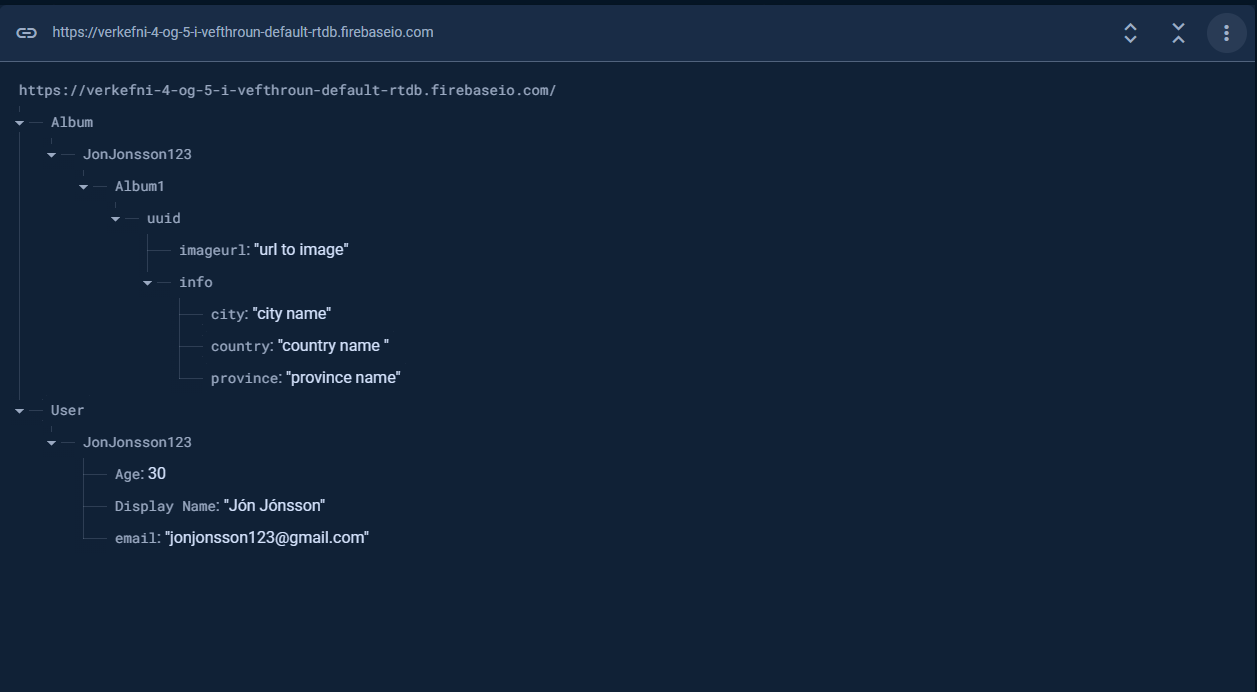
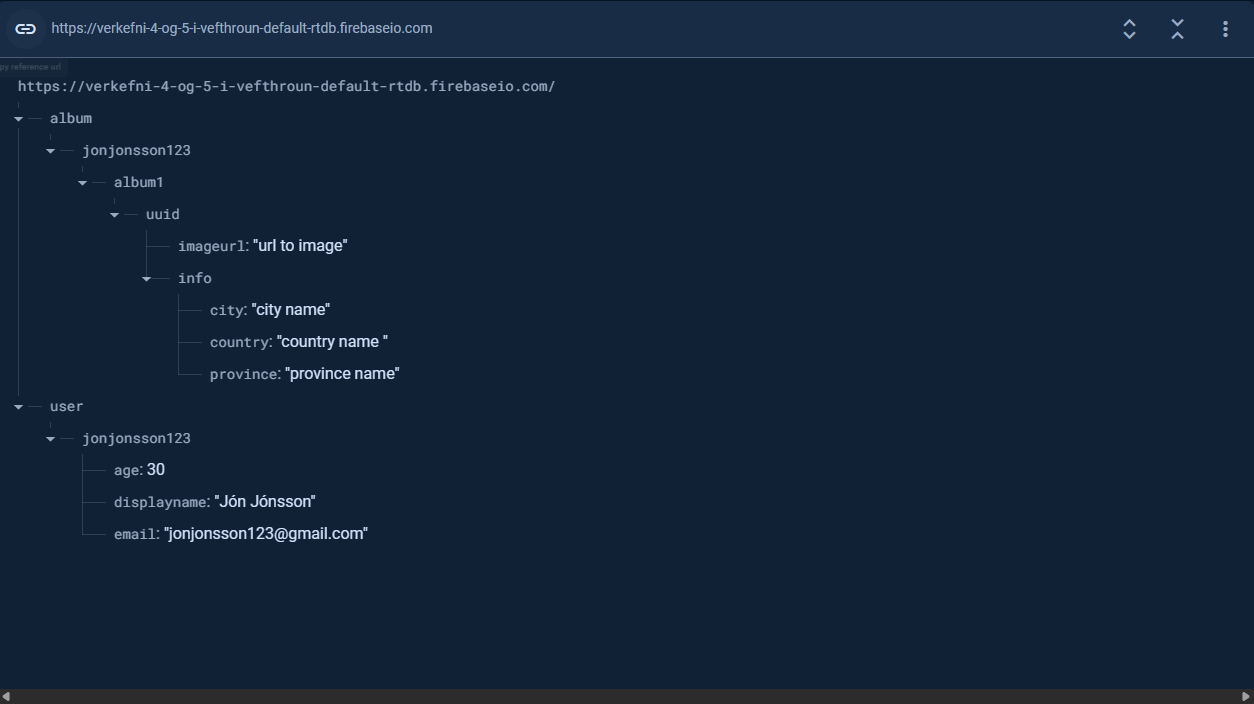
chore: Refactor write_functions_rtdb.ts and update database structure

diff --git a/my-app/src/app/lib/write_functions_rtdb.ts b/my-app/src/app/lib/write_functions_rtdb.ts
@@ -1,5 +1,13 @@
 import { getDatabase, ref, set } from "firebase/database";
 
+export function createUser(username, displayname_value, age_value, email_value) {
+  set(ref(getDatabase(), 'User/' + username), {
+    displayname: displayname_value,
+    email: email_value,
+    age : age_value
+  });
+}
+
 // Function to write a user's age
 export function writeUserAge(username, age) {
     const ageRef = ref(getDatabase(), `User/${username}/Age`);
